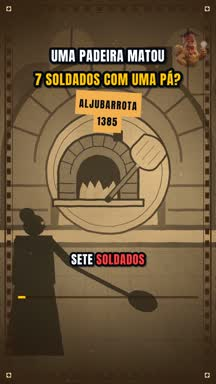
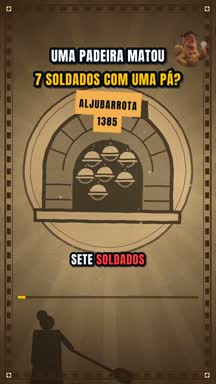
Calendário e estado: vídeo 11 trocado pela versão v11b; v09 marcado como publicado
Claude-Session: https://claude.ai/code/session_0187XyVF5Rcf2HNbfxyycQqa

diff --git a/learnings.md b/learnings.md
@@ -63,7 +63,7 @@ Código: nenhum ficheiro de `tools/edit/*` alterado. Teste sintético (align.jso
   - Som: música `quirky`, `loops` de `crackle` (forno) nas frases do forno, `stab` no payoff "acabou com todos", `chime` em "lenda bem contada". R2: `punch_gap` 2.0. R4: 9 hashtags.
   - Duração ~46 s (boa, 40–50 s); não encurtar a narração.
 - v11 PRODUZIDO (25/11): gancho A "UMA PADEIRA MATOU / 7 SOLDADOS COM UMA PÁ?" + selo "ALJUBARROTA 1385", sem contador (7 é pequeno demais). Testa R1, R2 (punch_gap 2.0), R4, R5, R6, R7, R8. Motivo: forno + pá (ícones novos `paforno`, `fornocheio`, `peel`), mão de seis dedos (`hand6`), lupa (`lupa`), selos lado a lado "HEROÍNA?" / "LENDA?" (config `versus`); medalhões que surgem a meio do plano (`pop` no plano da história). Som: quirky, `crackle` no forno. Correção no kit: o objeto do `slam` vê-se desde o frame 0 e o clarão do plano 1 baixou de 0,85 para 0,12 (nos v09c/v10c o fundo do frame 0 ainda saía quase vazio). `finish.sh` agora repete o limitador até o pico verdadeiro ficar ≤ -1 dBTP. Ficha: 46,0 s, -1,5 dBTP, 54 MB.
-- 25/11 · A PARTIR DO v12 (aprovado pelo João; correções no RUNBOOK 3.1/3.4, não é regra ativa nova): (1) som medido face à voz; (2) dois ou mais planos por frase, mudança aos 1,45 s; (3) medalhões 2 fotogramas antes da palavra e reviravolta com paragem de música, batida e aproximação. HIPÓTESE, sem prova: melhora o tempo médio de visualização e a % que passa o 1.º segundo. Avaliar com pelo menos 5 vídeos novos com 48 h de métricas contra v09–v11 (temas e durações diferentes: ler com cautela; as três mudanças entram juntas, por isso não se separa o efeito de cada uma).
+- 25/11 · A PARTIR DO v11 (versão v11b, trocada no Buffer antes de sair; aprovado pelo João; correções no RUNBOOK 3.1/3.4, não é regra ativa nova): (1) som medido face à voz; (2) dois ou mais planos por frase, mudança aos 1,45 s; (3) medalhões 2 fotogramas antes da palavra e reviravolta com paragem de música, batida e aproximação. HIPÓTESE, sem prova: melhora o tempo médio de visualização e a % que passa o 1.º segundo. Avaliar com pelo menos 5 vídeos novos com 48 h de métricas contra v09 e v10 (temas e durações diferentes: ler com cautela; as três mudanças entram juntas, por isso não se separa o efeito de cada uma).
 
 
 ## Ideias de objetos e sons por tipo de história
